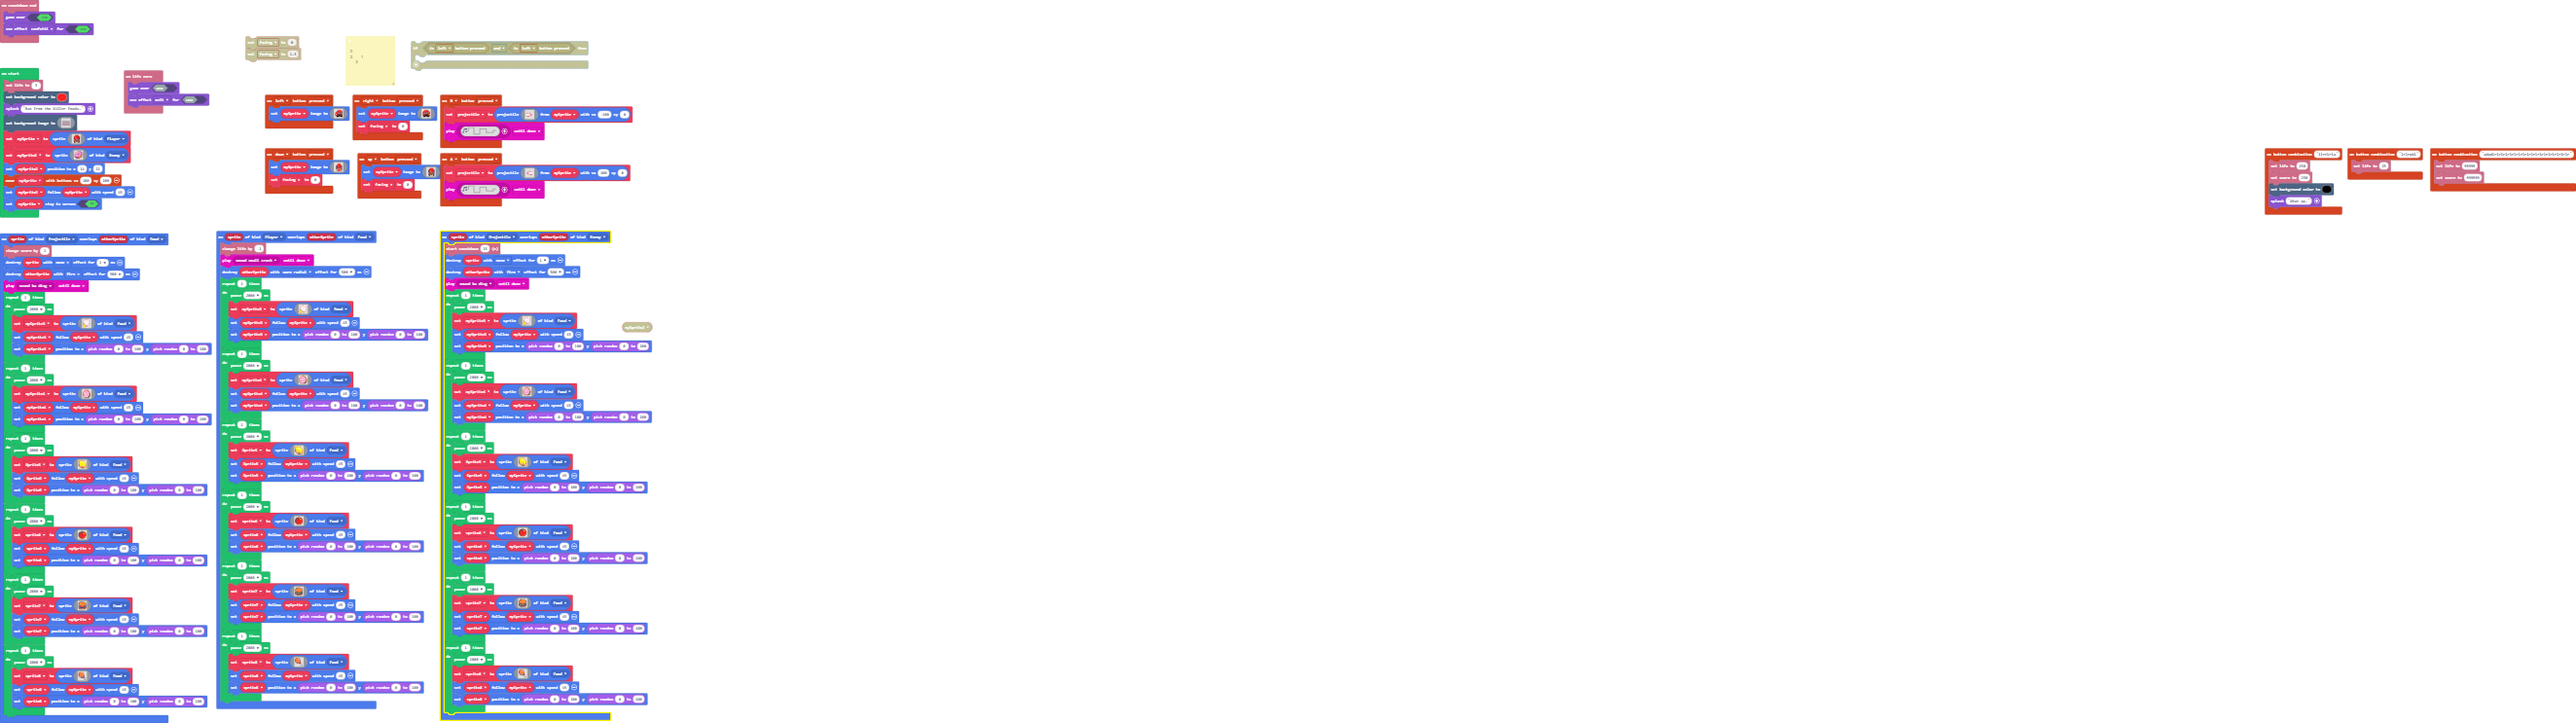
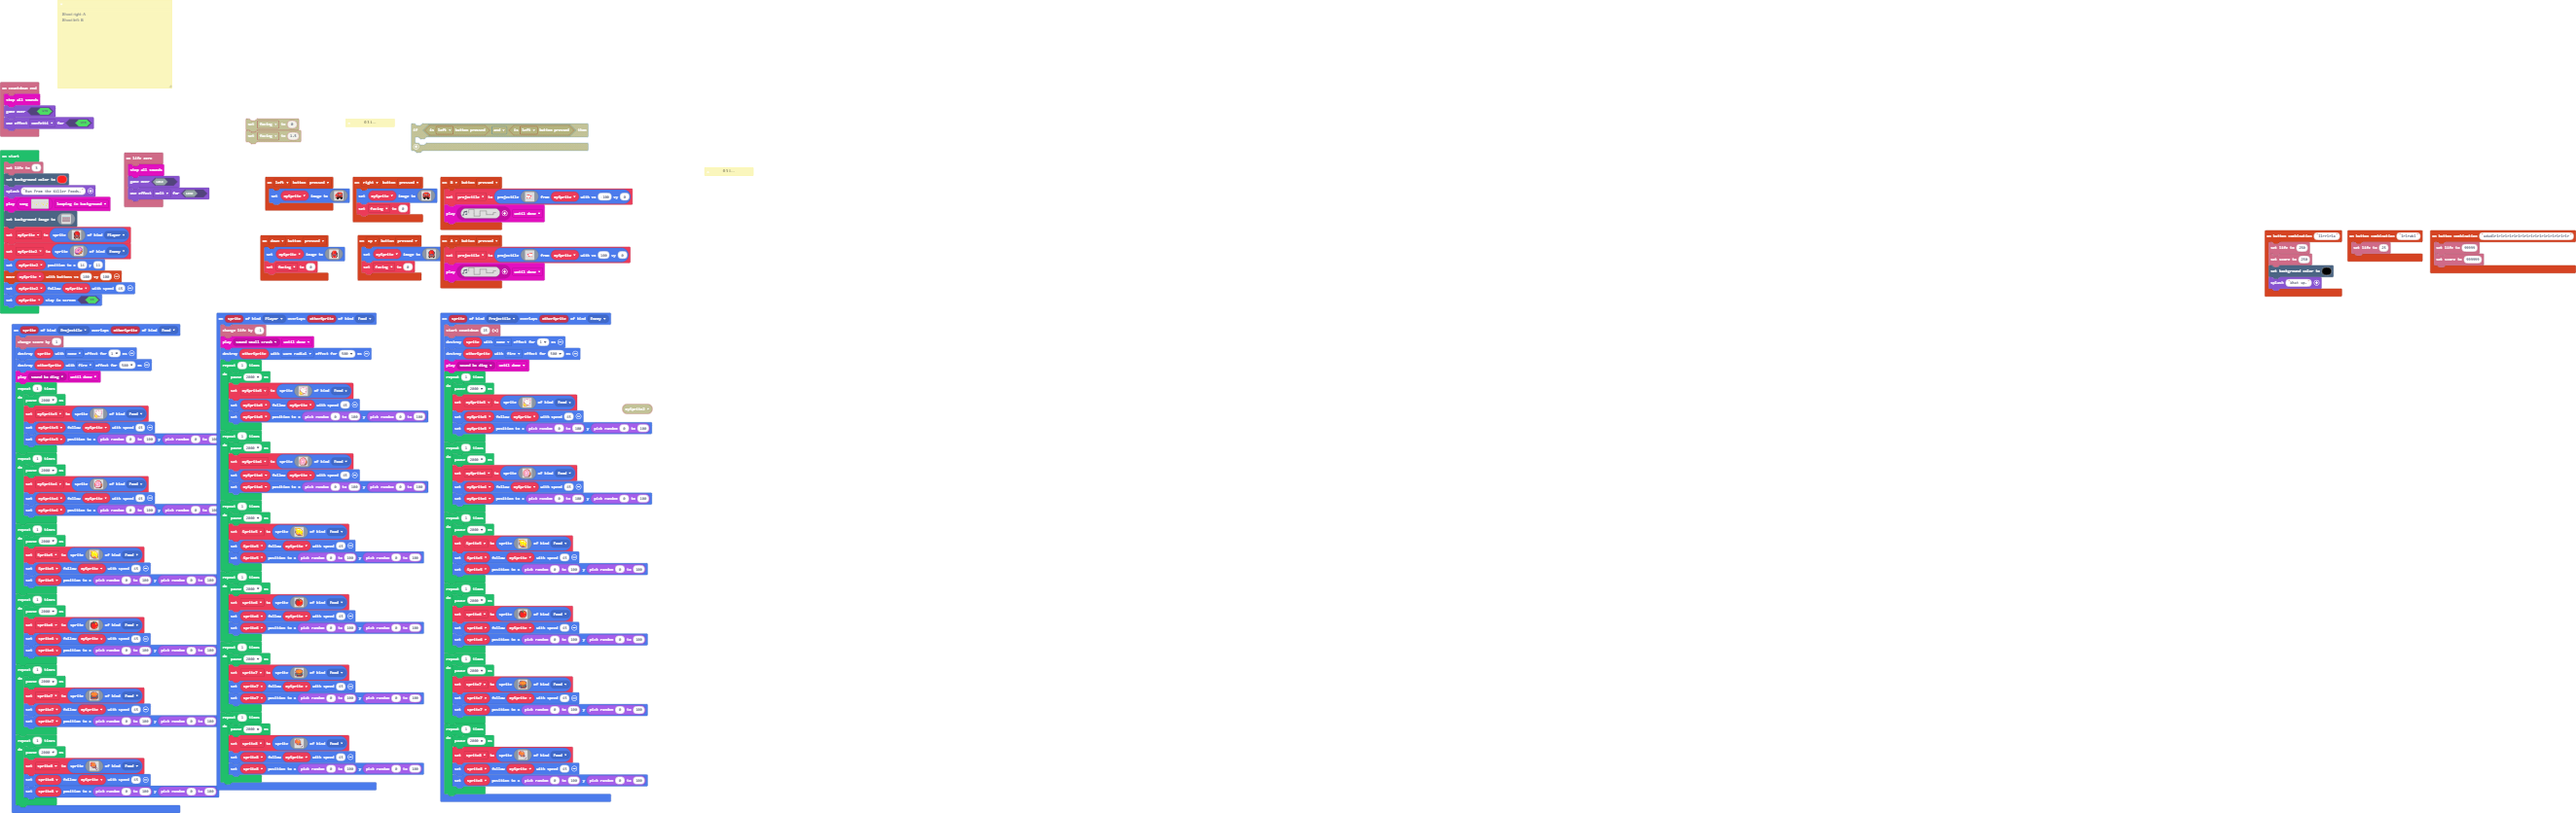
Update main.blocks, main.ts

Changed region(s): [[0.0, 0.0, 0.2788, 1.0], [0.8674, 0.1857, 1.0, 0.3715], [0.2788, 0.1857, 0.3098, 0.2167]]

diff --git a/main.ts b/main.ts
@@ -5,6 +5,13 @@
  * 
  *      2
  */
+/**
+ * 0
+ * 
+ * 3        1
+ * 
+ *      2
+ */
 controller.up.onEvent(ControllerButtonEvent.Pressed, function () {
     mySprite.setImage(img`
         . . . . . . e e c c e e . . . . 
@@ -232,7 +239,13 @@ controller.left.onEvent(ControllerButtonEvent.Pressed, function () {
         . . . . . . . . . . . . . . . . 
         `)
 })
+/**
+ * Shoot right: A
+ * 
+ * Shoot left: B
+ */
 info.onCountdownEnd(function () {
+    music.stopAllSounds()
     game.gameOver(true)
     game.setGameOverEffect(true, effects.confetti)
 })
@@ -292,6 +305,7 @@ controller.down.onEvent(ControllerButtonEvent.Pressed, function () {
     facing = 0
 })
 info.onLifeZero(function () {
+    music.stopAllSounds()
     game.gameOver(false)
     game.setGameOverEffect(false, effects.melt)
 })
@@ -594,6 +608,7 @@ let mySprite: Sprite = null
 info.setLife(3)
 scene.setBackgroundColor(2)
 game.splash("Run From the Killer Foods.")
[1 lines of base64/hex data omitted]
 scene.setBackgroundImage(img`
     9999999999999999999999999999999999999999999999999999999999999999999999999999999999999999999999999999999999999999999999999999999999999999999999999999999999999999
     9999999999999999999999999999999999999999999999999999111111111119999999999999999999999999999999999999991111999999999999999999999999999999999999999999111111111111
